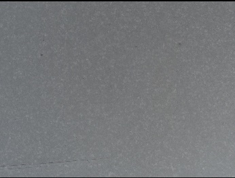
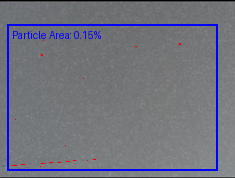
ff

Changed region(s): [[0.0298, 0.1124, 0.9532, 0.9831], [0.7447, 0.2247, 0.7745, 0.2528]]

diff --git a/src/gui.py b/src/gui.py
@@ -4,7 +4,7 @@ from PyQt6.QtWidgets import (QApplication, QMainWindow, QLabel, QPushButton,
                              QVBoxLayout, QWidget, QFileDialog, QHBoxLayout,
                              QSlider, QDoubleSpinBox, QFrame, QRubberBand,
                              QProgressDialog, QLineEdit)
-from PyQt6.QtGui import QPixmap
+from PyQt6.QtGui import QPixmap, QIcon
 from PyQt6.QtCore import Qt, QRect, QPoint, QSize, pyqtSignal
 from PIL import Image, ImageDraw
 from PIL.ImageQt import ImageQt
@@ -73,8 +73,9 @@ class ImageSelectionLabel(ScaledPixmapLabel):
 class MainWindow(QMainWindow):
     def __init__(self):
         super().__init__()
-        self.setWindowTitle("Dark Particle Analyzer")
+        self.setWindowTitle("Dark Particle Analyzer - 深色粒子分析器")
         self.setGeometry(100, 100, 1200, 700)
+        self.setWindowIcon(QIcon("public\images\icon.svg"))
 
         self.original_image_label = ImageSelectionLabel()
         self.original_image_label.setAlignment(Qt.AlignmentFlag.AlignCenter)
@@ -294,7 +295,7 @@ class MainWindow(QMainWindow):
                     output_path=output_path,
                     blur_radius=blur_radius,
                     border_width=border_width,
-                    selection_box=None,  # Process the whole image
+                    selection_box=self.last_selection_box,  # 使用当前选择的区域
                     min_particle_size=min_size,
                     max_particle_size=max_size
                 )
@@ -367,6 +368,8 @@ class MainWindow(QMainWindow):
             self.last_selection_box = (left, top, right, bottom)
         
         if not self.last_selection_box:
+            # Even if there's no selection, we should still update the parameters
+            # so that batch processing uses the latest values.
             return
 
         sensitivity = self.sensitivity_spinbox.value()

diff --git a/src/main.py b/src/main.py
@@ -109,14 +109,24 @@ def mark_dark_particles_adaptive(image_input, sensitivity=0.2, output_path='outp
         result_img = Image.fromarray(result_array)
 
     # 在最终图像上绘制选框（如果提供）
+    draw = ImageDraw.Draw(result_img)
     if selection_box:
-        draw = ImageDraw.Draw(result_img)
         draw.rectangle(selection_box, outline="blue", width=2)
 
     # 计算百分比
     particle_area = np.sum(mask)
     total_area = mask.size
     percentage = (particle_area / total_area) * 100 if total_area > 0 else 0
+
+    # 在图片上用蓝色笔迹刻印粒子所占面积
+    text = f"Particle Area: {percentage:.2f}%"
+    # 简单的定位逻辑：如果选框存在，则放在选框内，否则放在左上角
+    if selection_box:
+        text_position = (selection_box[0] + 5, selection_box[1] + 5)
+    else:
+        text_position = (15, 15)
+    text_color = (0, 0, 255)  # 蓝色
+    draw.text(text_position, text, fill=text_color)
 
     # 保存结果
     result_img.save(output_path)
